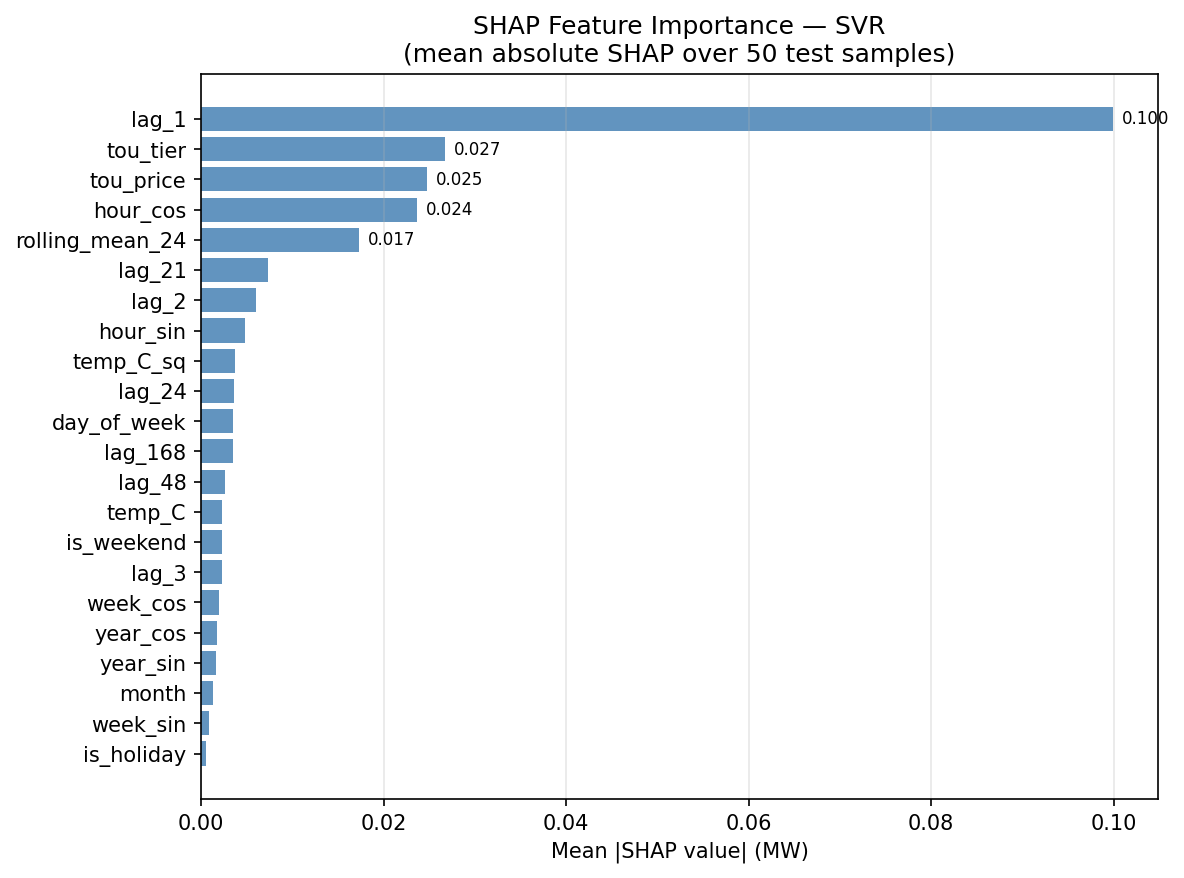
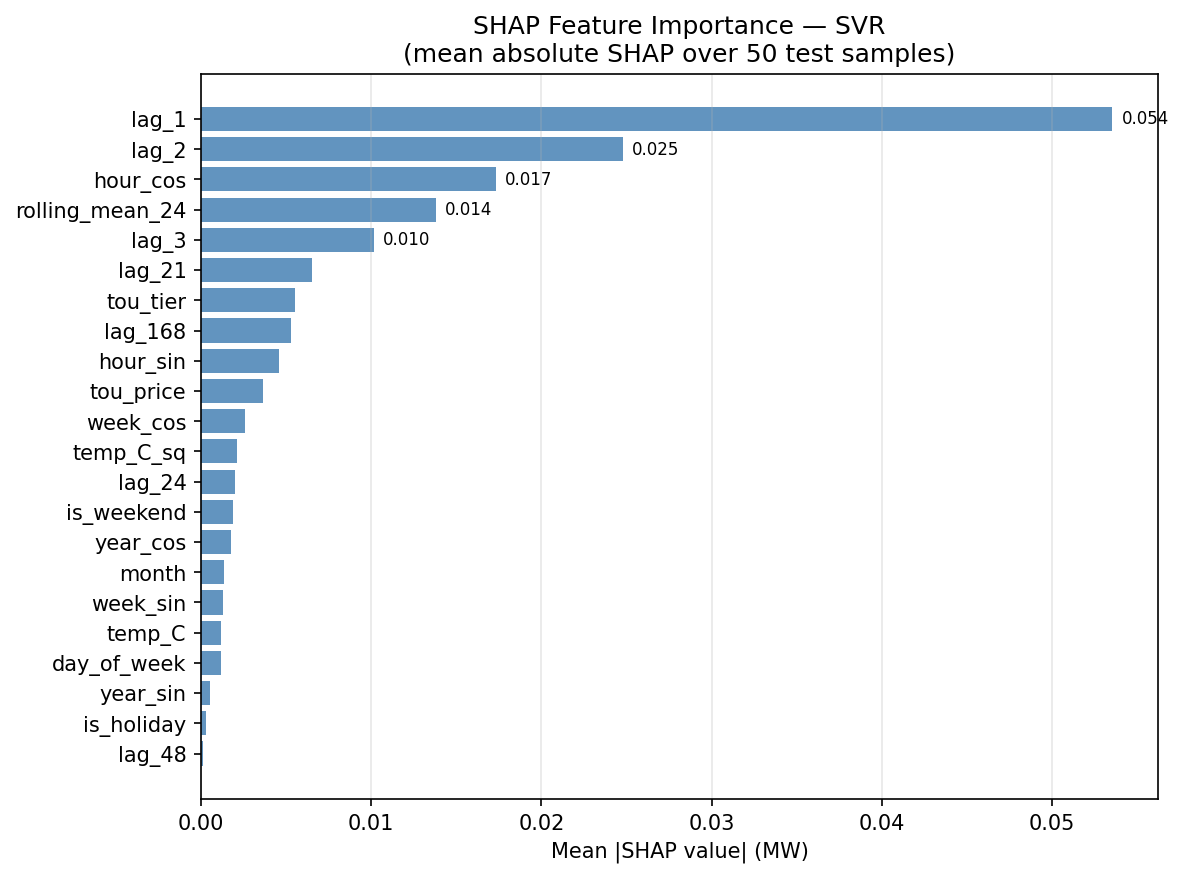
Refresh paper tables/plots and remove deprecated results (pareto, sensitivity, statistical)

diff --git a/src/paper_comparison.py b/src/paper_comparison.py
@@ -27,6 +27,8 @@ sys.path.insert(0, _ROOT)
 
 
 def run_paper_comparison(
+    X_test=None,
+    y_test=None,
     target_scaler=None,
     caption: str = (
         "Performance comparison of forecasting models on the DUQ hourly "
@@ -36,24 +38,32 @@ def run_paper_comparison(
     label: str = "tab:model_comparison",
 ) -> pd.DataFrame:
     """
-    Full pipeline: load data -> load saved models -> metrics -> table -> chart.
+    Full pipeline: load saved models -> metrics -> table -> chart.
     Delegates entirely to evaluation.build_model_comparison_table.
 
-    If target_scaler is provided, all metrics are computed on original MW scale.
+    CRITICAL: X_test, y_test, and target_scaler MUST be passed from main.py
+    to ensure the same test set used during training is used for evaluation.
+    DO NOT call preprocess() here — that creates a new split and causes leakage.
+
+    Parameters
+    ----------
+    X_test        : test features (same split used during training)
+    y_test        : test targets (same split used during training)
+    target_scaler : scaler fitted on y_train only
+
     Returns the results DataFrame (rows = models, cols = metrics).
     """
-    from src.preprocessing import preprocess
-    from src.evaluation    import build_model_comparison_table
+    from src.evaluation import build_model_comparison_table
 
-    print("\n[paper_comparison] Loading and preprocessing data...")
-    _, X_test, _, y_test, _, saved_target_scaler, _, _ = \
-        preprocess(os.path.join(_ROOT, "dataset", "DUQ_hourly.csv"))
+    if X_test is None or y_test is None:
+        raise ValueError(
+            "X_test and y_test must be provided from main.py. "
+            "DO NOT call preprocess() here — use the same test set from training."
+        )
 
-    # Prefer the caller-supplied scaler; fall back to the one from preprocess
-    scaler_to_use = target_scaler if target_scaler is not None else saved_target_scaler
-
+    print("\n[paper_comparison] Using provided test set (no re-split).")
     return build_model_comparison_table(
-        X_test, y_test, target_scaler=scaler_to_use, caption=caption, label=label
+        X_test, y_test, target_scaler=target_scaler, caption=caption, label=label
     )
 
 

diff --git a/results/paper_table.tex b/results/paper_table.tex
@@ -8,8 +8,8 @@
     \midrule
     Random Forest & 28.10 & 21.51 & 0.9908 & 1.37 \\
     XGBoost & \textbf{21.50} & \textbf{16.05} & \textbf{0.9946} & \textbf{1.02} \\
-    SVR & 31.70 & 25.28 & 0.9883 & 1.62 \\
-    LSTM & 1599.45 & 1572.34 & -28.7235 & 99.98 \\
+    SVR & 63.63 & 53.14 & 0.9529 & 3.43 \\
+    LSTM & 36.52 & 26.79 & 0.9845 & 1.68 \\
     \bottomrule
   \end{tabular}
   \begin{tablenotes}
